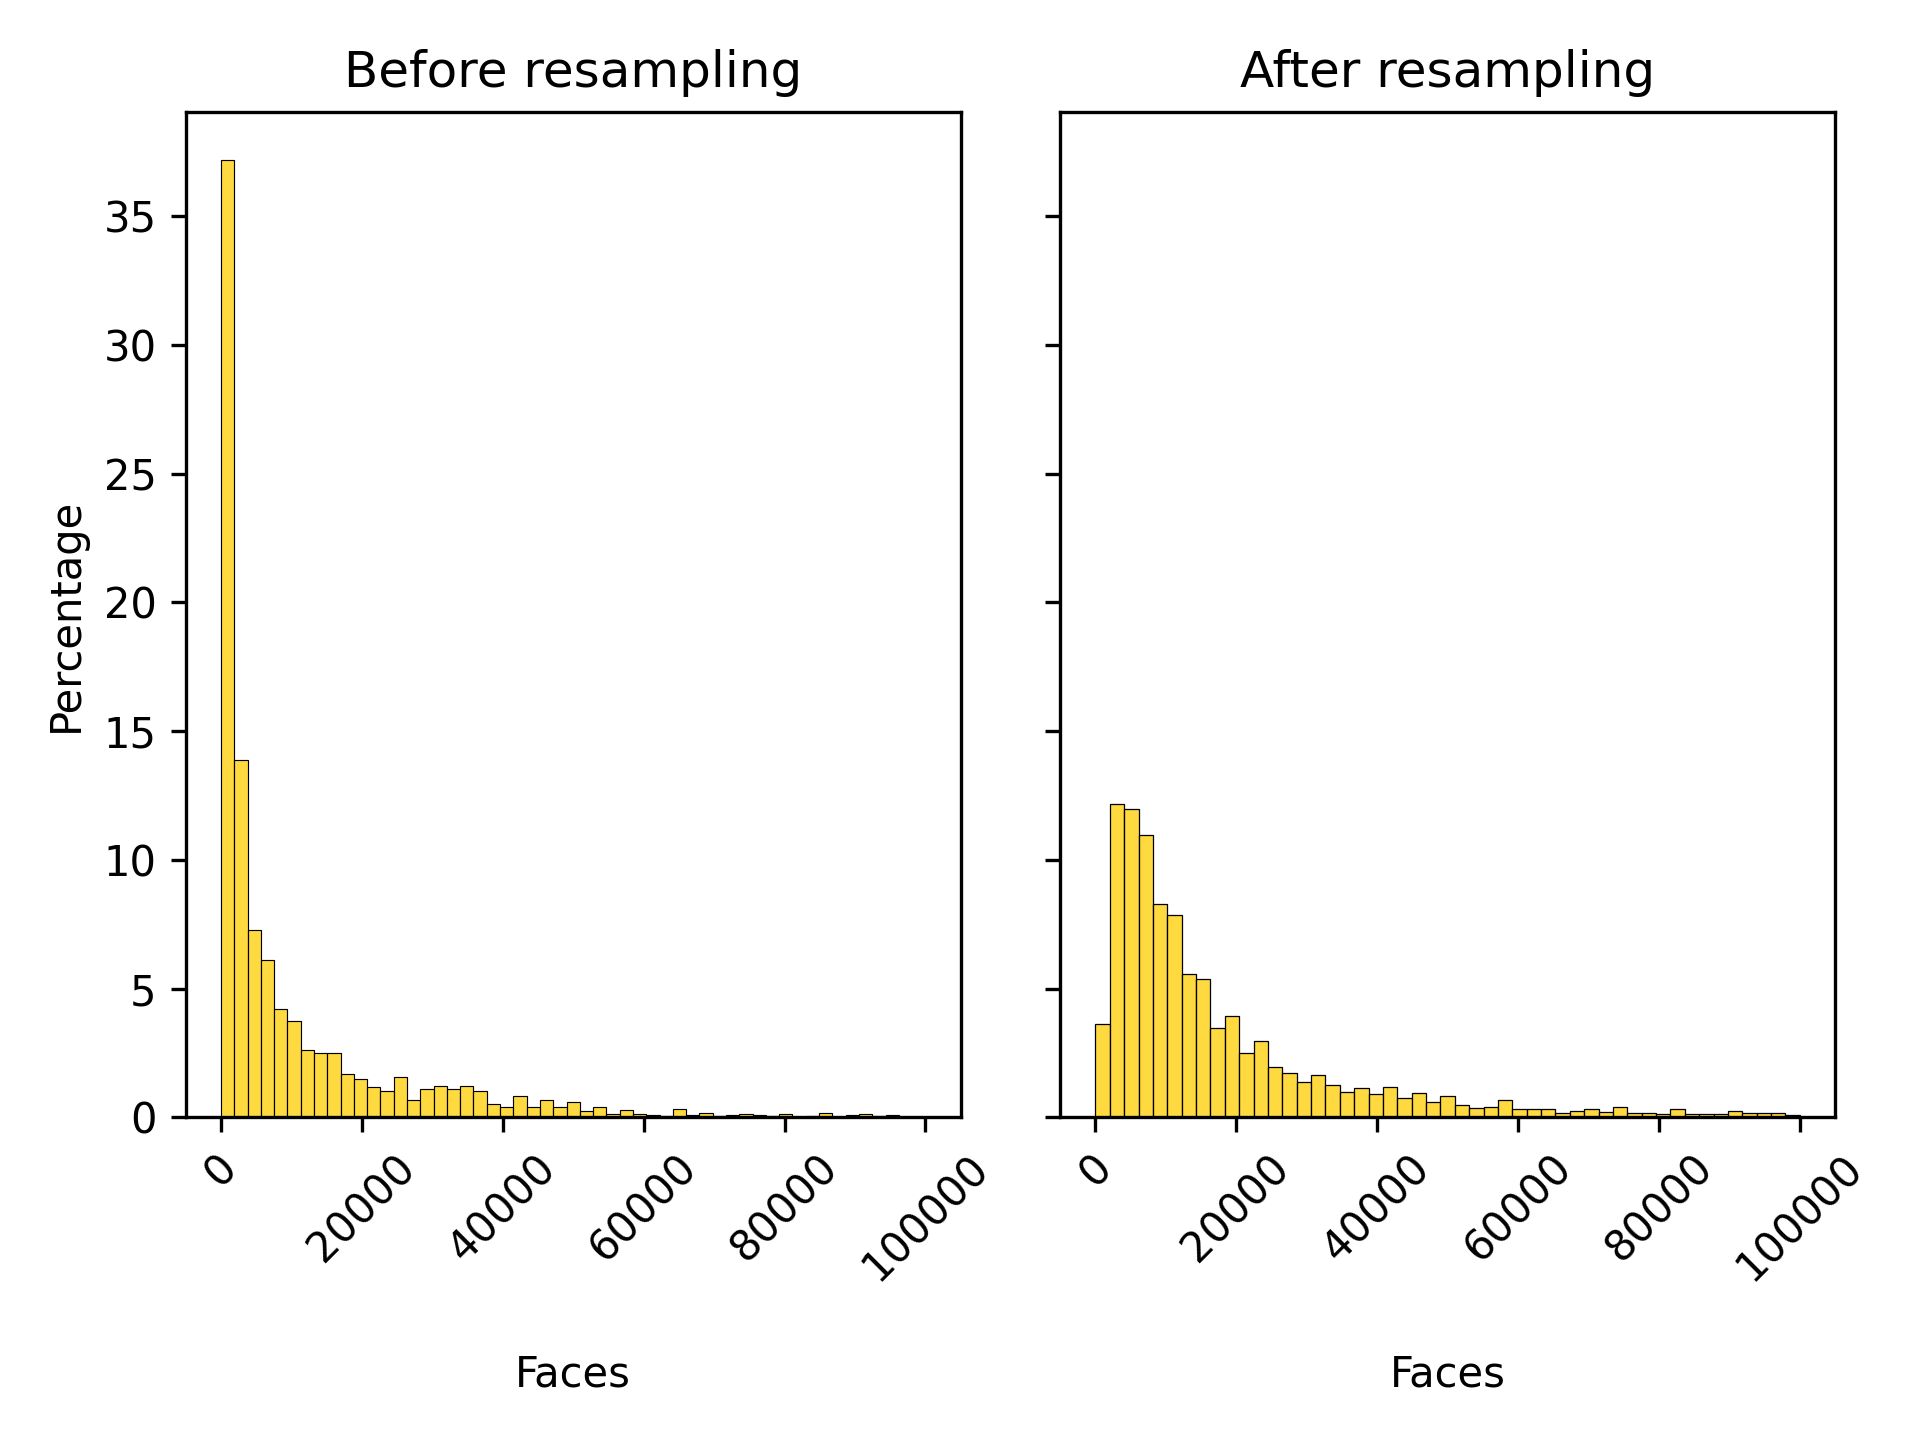
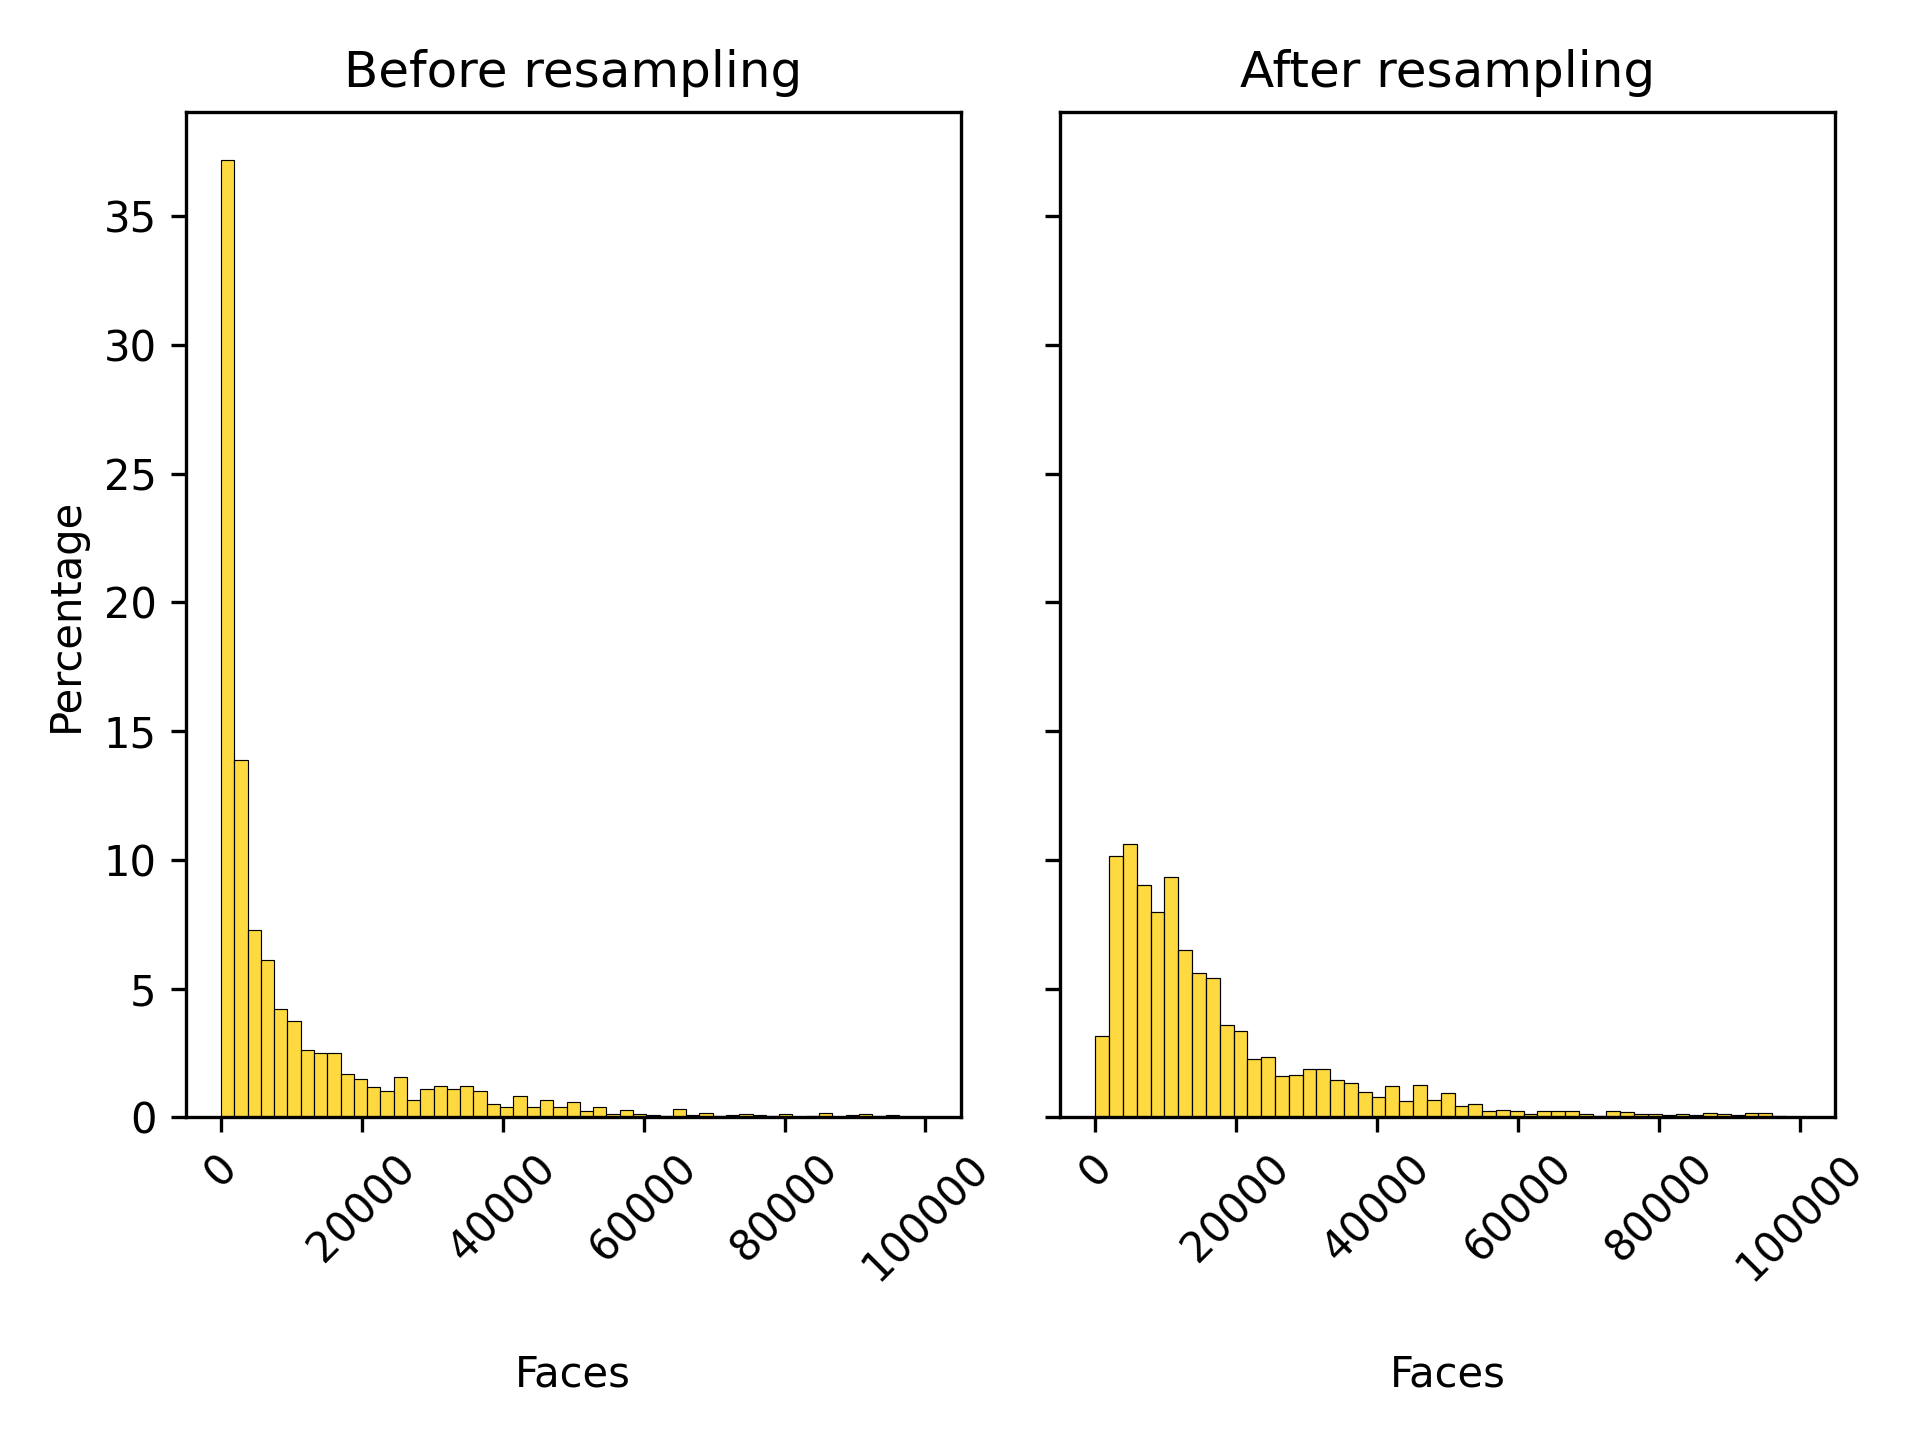
Updated step 2 code

Changed region(s): [[0.5625, 0.5625, 0.875, 0.7812]]

diff --git a/Rorschach/visualization/visualize_data.py b/Rorschach/visualization/visualize_data.py
@@ -15,7 +15,7 @@ UU_PAL = sns.color_palette([UU_YELLOW, UU_RED, UU_CREME, UU_ORANGE, UU_BURGUNDY,
 
 
 # Function to calculate outliers (shapes outside of 4th quartile of boxplot)
-def calc_outliers(data):
+def calc_outliers(data: np.ndarray) -> tuple:
     # Calculate the quartiles and IQR
     q1 = np.percentile(data, 25)
     q3 = np.percentile(data, 75)
@@ -23,12 +23,13 @@ def calc_outliers(data):
 
     # Define the upper bound for outliers
     upper_bound = q3 + 1.5 * iqr
-    print(upper_bound)
+    lower_bound = q1 - 1.5 * iqr
 
     # Count the number of outliers
-    outliers = [x for x in data if x > upper_bound]
-    num_outliers = len(outliers)
-    print(num_outliers)
+    outliers_upper = data[data > upper_bound]
+    outliers_lower = data[data < lower_bound]
+
+    return len(outliers_lower), len(outliers_upper)
 
 
 # Function to create boxplots of number of vertices and faces
@@ -183,9 +184,6 @@ def hist_barycenter(mesh_info: pd.DataFrame, mesh_info_normalized: pd.DataFrame,
     offset_bary_count = offset_bary_count / offset_bary_count.sum() * 100
     offset_bary_count_norm = offset_bary_count_norm / offset_bary_count_norm.sum() * 100
 
-    print(f"Max barycenter offset: {mesh_info['Barycenter offset'].max()}")
-    print(f"Max barycenter offset (normalized): {mesh_info_normalized['Barycenter offset'].max()}")
-
     fig, axes = plt.subplots(1, 2, sharex=sharex, sharey=sharey)
     axes[0].hist(bins_bary[:-1], bins_bary, weights=offset_bary_count, color=UU_YELLOW, edgecolor="black")
     axes[0].set_title("Before normalization")
@@ -284,13 +282,92 @@ def boxplot_before_after(mesh_info, mesh_info_normalized, column: str) -> None:
     plt.clf()
 
 
+def summary_statistics(fp_csv: str, n_decimals: int = None, top_n: int = 10) -> dict:
+    """Calculate relevant statistics as required in Step 2 of the assignment.
+
+    :param fp_csv: Filepath to the mesh info of a dataset
+    :type fp_csv: str
+
+    :return: Relevant statistics
+    :rtype: dict
+    """
+    # Load csv in pandas
+    mesh_info = pd.read_csv(fp_csv)
+
+    stats = {}
+
+    # Calculate mean number of vertices and faces
+    stats["Mean vertices"] = mesh_info["Vertices"].mean()
+    stats["Mean faces"] = mesh_info["Faces"].mean()
+
+    # Calculate min and max values of vertices and faces
+    stats["Min vertices"] = mesh_info["Vertices"].min()
+    stats["Max vertices"] = mesh_info["Vertices"].max()
+
+    stats["Min faces"] = mesh_info["Faces"].min()
+    stats["Max faces"] = mesh_info["Faces"].max()
+
+    # Calculate outliers outside of inner two quartiles
+    vertex_lower, vertex_upper = calc_outliers(mesh_info["Vertices"].values)
+    stats["Outliers vertices lowerbound"] = vertex_lower
+    stats["Outliers vertices upperbound"] = vertex_upper
+
+    face_lower, face_upper = calc_outliers(mesh_info["Faces"].values)
+    stats["Outliers faces lowerbound"] = face_lower
+    stats["Outliers faces upperbound"] = face_upper
+
+    # Calculate percentage of outliers in dataset
+    stats["Percentage outliers vertices"] = (vertex_lower + vertex_upper) / len(mesh_info) * 100
+    stats["Percentage outliers faces"] = (face_lower + face_upper) / len(mesh_info) * 100
+
+    # Calculate mean number of meshes per category
+    stats["Mean meshes per category"] = mesh_info["Class"].value_counts().mean()
+
+    # Top n categories
+    stats["Top n categories"] = mesh_info["Class"].value_counts()[:top_n].to_dict()
+
+    if n_decimals is not None:
+        for key, value in stats.items():
+            if isinstance(value, float):  # Ignore dict-in-dict
+                stats[key] = round(value, n_decimals)
+    return stats
+
+
+def normalization_statistics(fp_csv, n_decimals: int = None):
+    # Load csv in pandas
+    mesh_info = pd.read_csv(fp_csv)
+
+    stats = {}
+
+    # Mean of relevant columns
+    stats["Mean Barycenter offset"] = mesh_info["Barycenter offset"].mean()
+    stats["Mean Principal comp error"] = mesh_info["Principal comp error"].mean()
+    stats["Mean SOM error"] = mesh_info["SOM error"].mean()
+    stats["Mean Max dim"] = mesh_info["Max dim"].mean()
+
+    # Max of relevant columns
+    stats["Max Barycenter offset"] = mesh_info["Barycenter offset"].max()
+    stats["Max Principal comp error"] = mesh_info["Principal comp error"].max()
+    stats["Max SOM error"] = mesh_info["SOM error"].max()
+    stats["Max Max dim"] = mesh_info["Max dim"].max()
+
+    if n_decimals is not None:
+        for key, value in stats.items():
+            stats[key] = round(value, n_decimals)
+
+    return stats
+
+
 if __name__ == "__main__":
     # Load mesh info from existing CSV file
     mesh_info_raw = pd.read_csv("./data/mesh_info.csv")
-    mesh_info = pd.read_csv("./data_cleaned/mesh_info.csv")
+    mesh_info_cleaned = pd.read_csv("./data_cleaned/mesh_info.csv")
     mesh_info_normalized = pd.read_csv("./data_normalized/mesh_info.csv")
 
     # 2.2 statistics over whole dataset
+    stats = summary_statistics("./data/mesh_info.csv", n_decimals=0)
+    print(f"Before resampling: {stats}")
+
     histogram2D(mesh_info_raw, "Vertices", "./figures/step2/before_processing/hist_vertices.png", n_bins=15)
     histogram2D(mesh_info_raw, "Faces", "./figures/step2/before_processing/hist_faces.png", n_bins=15)
     boxplot(mesh_info_raw, column="Vertices", fp_save="./figures/step2/before_processing/boxplot_vertices.png")
@@ -298,17 +375,26 @@ if __name__ == "__main__":
     class_distribution(mesh_info_raw, "./figures/step2/before_processing/class_distribution.png", top_n=10)
     class_histogram(mesh_info_raw, "./figures/step2/before_processing/class_histogram.png", every_n=20)
 
-    # 2.5
-    hist_barycenter(mesh_info, mesh_info_normalized, "Barycenter offset", "./figures/step2/after_processing/hist_bary.png")
-    hist_max_dim(mesh_info, mesh_info_normalized, "Max dim", "./figures/step2/after_processing/hist_max_dim.png")
-    hist_before_after(mesh_info, mesh_info_normalized, "Principal comp error", "./figures/step2/after_processing/hist_pca.png")
-    hist_before_after(mesh_info, mesh_info_normalized, "SOM error", "./figures/step2/after_processing/hist_som.png")
-
-    # Uses mesh info raw since only these two columns are present in the raw data
-    hist_before_after(mesh_info_raw, mesh_info_normalized, "Vertices",
+    # 2.3 Resampling outliers, original data vs after resampling
+    hist_before_after(mesh_info_raw, mesh_info_cleaned, "Vertices",
                       "./figures/step2/after_processing/hist_vertices.png", binrange=(0, 100_000))
-    hist_before_after(mesh_info_raw, mesh_info_normalized, "Faces",
+    hist_before_after(mesh_info_raw, mesh_info_cleaned, "Faces",
                       "./figures/step2/after_processing/hist_faces.png", binrange=(0, 100_000))
+    stats = summary_statistics("./data_cleaned/mesh_info.csv", n_decimals=0)
+    # Only print mean number of vertices and faces
+    print(f"After resampling: Mean vertices: {stats['Mean vertices']}; Mean faces: {stats['Mean faces']}")
+
+    # 2.5
+    hist_barycenter(mesh_info_cleaned, mesh_info_normalized, "Barycenter offset", "./figures/step2/after_processing/hist_bary.png")
+    hist_max_dim(mesh_info_cleaned, mesh_info_normalized, "Max dim", "./figures/step2/after_processing/hist_max_dim.png")
+    hist_before_after(mesh_info_cleaned, mesh_info_normalized, "Principal comp error", "./figures/step2/after_processing/hist_pca.png")
+    hist_before_after(mesh_info_cleaned, mesh_info_normalized, "SOM error", "./figures/step2/after_processing/hist_som.png")
+
+    # Print stats before and after normalization
+    stats_before = normalization_statistics("./data_cleaned/mesh_info.csv", n_decimals=0)
+    stats_after = normalization_statistics("./data_normalized/mesh_info.csv", n_decimals=0)
+    print(f"Before normalization: {stats_before}")
+    print(f"After normalization: {stats_after}")
 
     # Old functions
     # histogram3D(mesh_info_raw)

diff --git a/Rorschach/preprocessing/preprocess.py b/Rorschach/preprocessing/preprocess.py
@@ -42,70 +42,30 @@ def rows_sqr_error(m1, m2=np.identity(3)):
 
 def normalize_mesh(meshset: pymeshlab.MeshSet) -> pymeshlab.MeshSet:
     measures = meshset.get_geometric_measures()  # Dictionary with geometric measures
-    # All keys of measures dict:
-    # "barycenter"
-    # "shell_barycenter"
-    # "pca"
-    # "bbox"
-    # "surface_area"
-    # "total_edge_inc_faux_length"
-    # "total_edge_length"
-    # "avg_edge_inc_faux_length"
-    # "avg_edge_length"
     barycenter = measures["barycenter"]  # Compute barycenter before translation
-    # print(f"bc: {np.sum(np.square(measures['barycenter']))}")
 
     ### Translate: baricenter to origin ###
     meshset.apply_filter("compute_matrix_from_translation",
                          traslmethod=3,  # traslmethod of 3 is to set a new origin instead of translating
-                         neworigin=measures["barycenter"])  # Use point clod for barycenter and make that new origin
-
-    measures = meshset.get_geometric_measures()  # Compute measures again with new barycenter
-    barycenter = measures["barycenter"]
-    pca_axes = measures["pca"]
-    # print(f"bc after trans: {np.sum(np.square(barycenter))}")
-    # print(f"pc:\n{pca_axes.round(3)}")
+                         neworigin=barycenter)  # Use point clod for barycenter and make that new origin
 
     ### Pose: Rotate to align axes ###
     meshset.apply_filter("compute_matrix_by_principal_axis", pointsflag=True, freeze=True, alllayers=True)
-
-    measures = meshset.get_geometric_measures()  # Compute measures again after axis align
-    pca_axes = measures["pca"]
-    # print(f"Aligned pc:\n{pca_axes.round(3)}")
-    # print(f"bc after rot: {np.sum(np.square(measures['barycenter']))}")
 
     ### Flip: heavy side to negative ###
     mesh = meshset.current_mesh()
     vertices = mesh.vertex_matrix()
     signx, signy, signz = calc_vertices_sign(vertices)  # Compute second order moment (SOM) sign
 
-    # print(f"SOM sign: [{signx}  {signy}  {signz}]")
-
     # Flip axes whose pc is in the positive direction (to flip more mass towards negative side)
     flip_x, flip_y, flip_z = flip_flags(signx, signy, signz)  # Whether to flip along any of the axes
 
     meshset.apply_filter("apply_matrix_flip_or_swap_axis", flipx=flip_x, flipy=flip_y, flipz=flip_z)
 
-    mesh = meshset.current_mesh()
-    vertices = mesh.vertex_matrix()
-    signx, signy, signz = calc_vertices_sign(vertices)  # Compute measures again after flipping
-
-    # print(f"SOM flipped: [{signx}  {signy}  {signz}]")
-    bbox = measures["bbox"]
-    bbox_max_dim = max(bbox.dim_x(), bbox.dim_y(), bbox.dim_z())
-    # print(f"Max dim: {bbox_max_dim}")
-    # print(f"bc after flip: {np.sum(np.square(measures['barycenter']))}")
-
     ### Size: multiply every dimension by inverse biggest axis ###
     meshset.apply_filter("compute_matrix_from_scaling_or_normalization",
                          scalecenter=0,  # scalecenter=0 to scale around world origin, 1 to scale around barycenter
                          unitflag=True)  # unitflag=True to scale to unit cube
-
-    measures = meshset.get_geometric_measures()  # Compute measures again after scaling
-    bbox = measures["bbox"]
-    bbox_max_dim = max(bbox.dim_x(), bbox.dim_y(), bbox.dim_z())
-    # print(f"Scaled max dim: {bbox_max_dim}")
-    # print(f"bc after scaling: {np.sum(np.square(measures['barycenter']))}")
 
     return meshset
 
@@ -244,27 +204,8 @@ def read_meshes(data_folder: str = "data_cleaned", data_folder_output: str = "da
     return [np.array(mesh_info), np.array(mesh_info_normalized)]
 
 
-def avg_shape(mesh_info: np.ndarray) -> tuple:
-    """Calculates the average shape of all meshes in the dataset.
-
-    :param mesh_info: Numpy array with mesh info
-    :type mesh_info: np.ndarray
-    :return: Average number of vertices and faces
-    :rtype: tuple
-    """
-    n_meshes = mesh_info.shape[0]
-
-    # Rewrite to use numpy
-    tot_vertices = np.sum(mesh_info[:, 2].astype(int))
-    tot_faces = np.sum(mesh_info[:, 3].astype(int))
-
-    return tot_vertices / n_meshes, tot_faces / n_meshes
-
-
 if __name__ == "__main__":
     # Flags to read/write info from csv
-    read_mesh_info = False
-    save_mesh_info = True
     csv_file_path = "./data_cleaned/mesh_info.csv"
     csv_fp_normalized = "./data_normalized/mesh_info.csv"
 
@@ -272,59 +213,27 @@ if __name__ == "__main__":
     fp_meshes_out = "./data_normalized"  # Output, the normalised meshes
     n_categories = 0  # 0 to read all categories
 
-    # Load mesh info from existing CSV file
-    if read_mesh_info:
-        mesh_info = pd.read_csv(csv_file_path)
-
-        # Load vertices and faces
-        vertices = []
-        faces = []
-        for _, mesh in mesh_info.iterrows():
-            vertices.append(mesh["Vertices"])
-            faces.append(mesh["Faces"])
-
-        # Convert to numpy array
-        vertices = np.array(vertices)
-        faces = np.array(faces)
-
-        # Print average shape
-        n_vertices, n_faces = avg_shape(mesh_info.values)  # Convert to numpy array
-        # print(f"Average shape: {n_vertices:_.0f} vertices, {n_faces:_.0f} faces")
-
     # Read mesh info from data folder and save it to a CSV file
-    elif save_mesh_info:
-        column_names = ["Filename", "Class", "Vertices", "Faces",
-                        "Barycenter offset", "Principal comp error", "SOM error", "Max dim"]
-        mesh_info, mesh_info_normalized = read_meshes(data_folder=fp_meshes_in,
-                                                      data_folder_output=fp_meshes_out,
-                                                      n_categories=n_categories)
+    column_names = ["Filename", "Class", "Vertices", "Faces",
+                    "Barycenter offset", "Principal comp error", "SOM error", "Max dim"]
+    mesh_info, mesh_info_normalized = read_meshes(data_folder=fp_meshes_in,
+                                                  data_folder_output=fp_meshes_out,
+                                                  n_categories=n_categories)
 
-        # Save mesh info in a CSV file
-        with open(csv_file_path, "w", newline="", encoding="utf-8") as csvfile:
-            csv_writer = csv.writer(csvfile)
-            csv_writer.writerow(column_names)
+    # Save mesh info in a CSV file
+    with open(csv_file_path, "w", newline="", encoding="utf-8") as csvfile:
+        csv_writer = csv.writer(csvfile)
+        csv_writer.writerow(column_names)
 
-            for row in mesh_info:
-                csv_writer.writerow(row)
+        for row in mesh_info:
+            csv_writer.writerow(row)
 
-        # Save normalized mesh info in a CSV file
-        with open(csv_fp_normalized, "w", newline="", encoding="utf-8") as csvnorm:
-            csv_writer = csv.writer(csvnorm)
-            csv_writer.writerow(column_names)
+    # Save normalized mesh info in a CSV file
+    with open(csv_fp_normalized, "w", newline="", encoding="utf-8") as csvnorm:
+        csv_writer = csv.writer(csvnorm)
+        csv_writer.writerow(column_names)
 
-            for row in mesh_info_normalized:
-                csv_writer.writerow(row)
+        for row in mesh_info_normalized:
+            csv_writer.writerow(row)
 
-        # Print average shape
-        n_vertices, n_faces = avg_shape(mesh_info)  # 5609 vertices, 10691 faces
-        # print(f"Average shape: {n_vertices:_.0f} vertices, {n_faces:_.0f} faces")
-
-    # Read mesh info from data folder but don't save
-    else:
-        mesh_info, mesh_info_normalized = read_meshes()
-
-        # Print average shape
-        n_vertices, n_faces = avg_shape(mesh_info)  # 5609 vertices, 10691 faces
-        # print(f"Average shape: {n_vertices:_.0f} vertices, {n_faces:_.0f} faces")
-
-        # Full preprocessing (normalization) takes 6 minutes 17 seconds (Riemer)
+    # Use visualize_data.py to visualize the data and print relevant statistics

diff --git a/README.md b/README.md
@@ -33,9 +33,9 @@ After running any of the above commands, the resulting window should look simila
 
 ### Step 2: Preprocessing and cleaning
 
-1. Run `python ./code/patch_meshes.py` to refine the meshes
-2. Run `python ./code/preprocess.py` to normalize the meshes
-3. Run `python ./code/visualize_data.py` to generate statistics for the refined and normalised meshes
+1. Run `python ./Rorschach/preprocessing/patch_meshes.py` to resample the meshes, this includes remeshing.
+2. Run `python ./Rorschach/preprocessing/preprocess.py` to normalize the meshes.
+3. Run `python ./Rorschach/visualization/visualize_data.py` to generate the relevant histograms and boxplots to visualize the resampling and normalisation steps. This will also print relevant statistics of the original, resampled and normalized datasets.
 
 ## Screenshots
 
